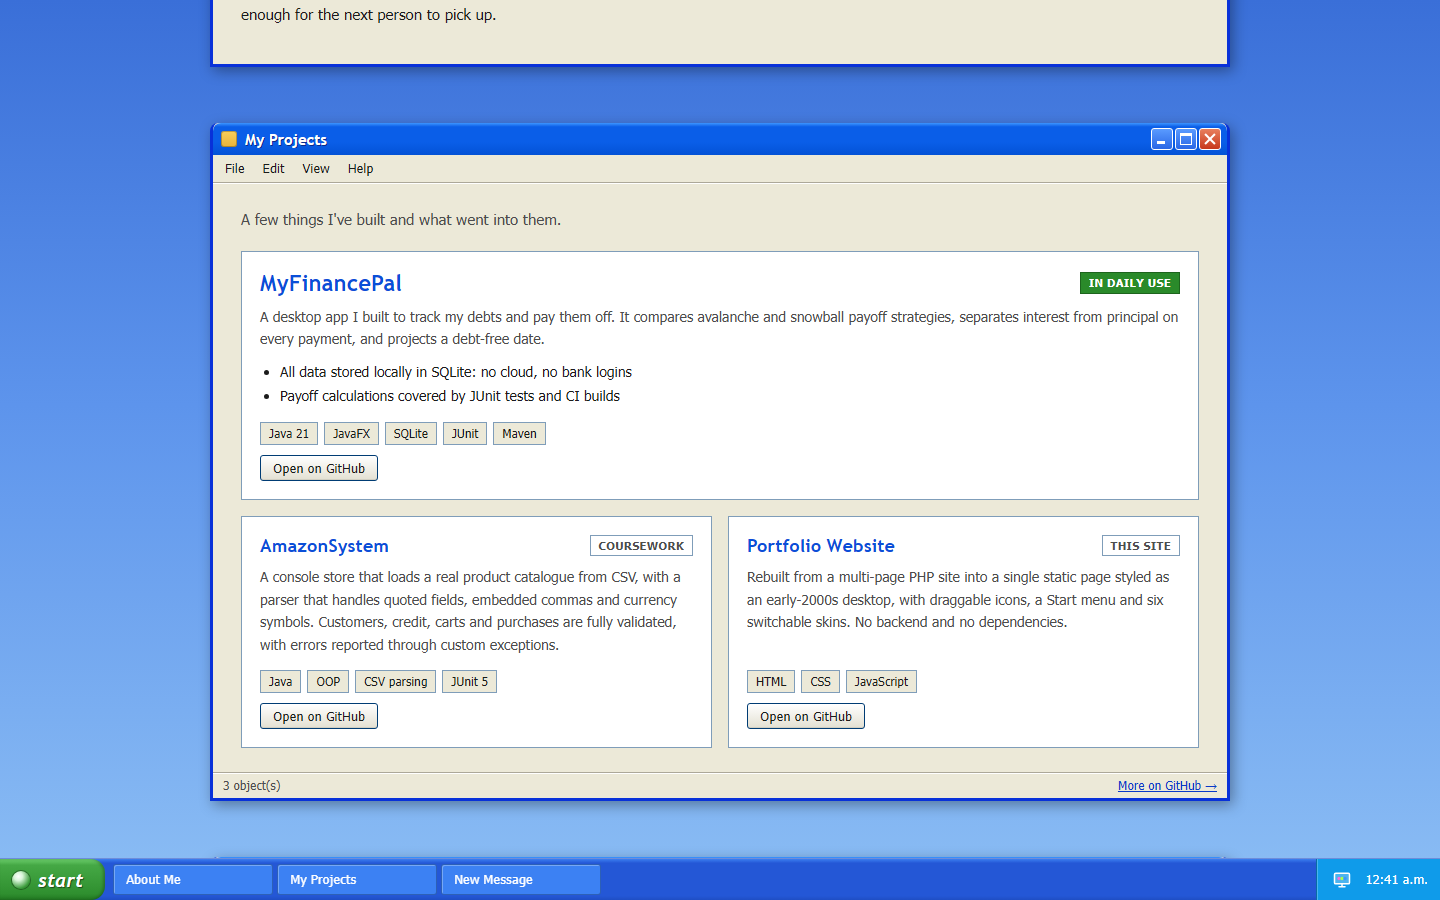
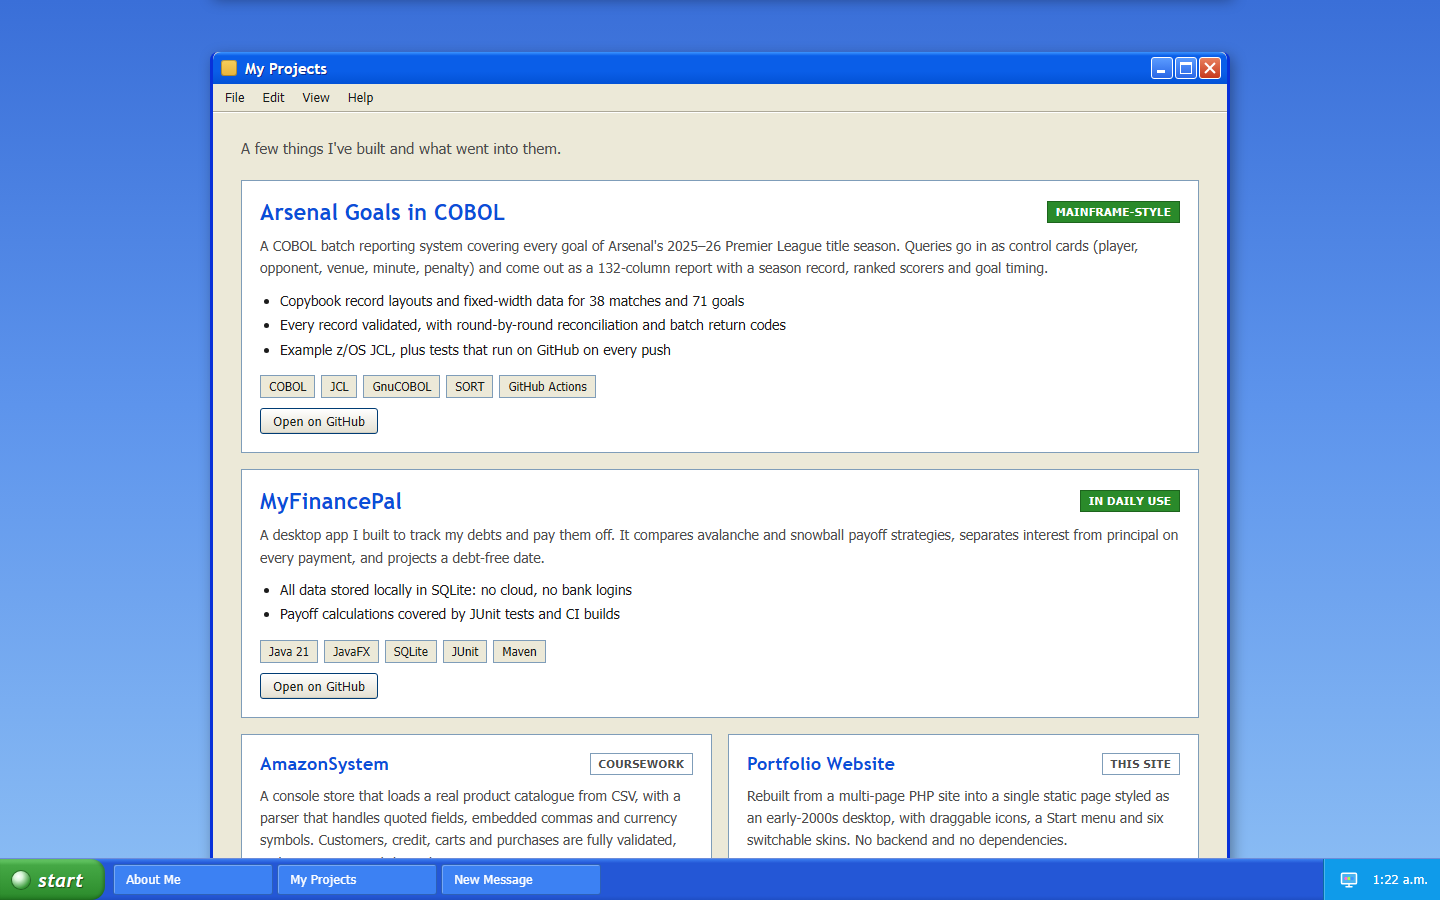
Feature the Arsenal Goals COBOL project

diff --git a/index.html b/index.html
@@ -126,6 +126,23 @@
                     <div class="project-grid">
                         <section class="project-card project-featured">
                             <div class="project-top">
+                                <h3>Arsenal Goals in COBOL</h3>
+                                <span class="project-badge">Mainframe-style</span>
+                            </div>
+                            <p>A COBOL batch reporting system covering every goal of Arsenal's 2025&ndash;26 Premier League title season. Queries go in as control cards (player, opponent, venue, minute, penalty) and come out as a 132-column report with a season record, ranked scorers and goal timing.</p>
+                            <ul class="project-points">
+                                <li>Copybook record layouts and fixed-width data for 38 matches and 71 goals</li>
+                                <li>Every record validated, with round-by-round reconciliation and batch return codes</li>
+                                <li>Example z/OS JCL, plus tests that run on GitHub on every push</li>
+                            </ul>
+                            <ul class="tags">
+                                <li>COBOL</li><li>JCL</li><li>GnuCOBOL</li><li>SORT</li><li>GitHub Actions</li>
+                            </ul>
+                            <a class="btn btn-small" href="https://github.com/alexanderschnell/arsenal-goals-cobol" target="_blank" rel="noopener noreferrer">Open on GitHub</a>
+                        </section>
+
+                        <section class="project-card project-featured">
+                            <div class="project-top">
                                 <h3>MyFinancePal</h3>
                                 <span class="project-badge">In daily use</span>
                             </div>
@@ -166,7 +183,7 @@
                     </div>
                 </div>
                 <footer class="statusbar">
-                    <span>3 object(s)</span>
+                    <span>4 object(s)</span>
                     <a href="https://github.com/alexanderschnell" target="_blank" rel="noopener noreferrer">More on GitHub →</a>
                 </footer>
             </article>
